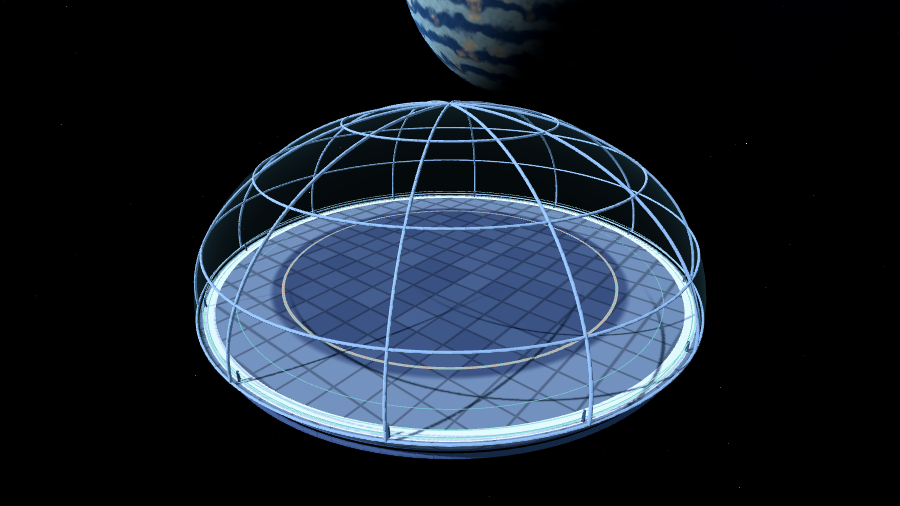
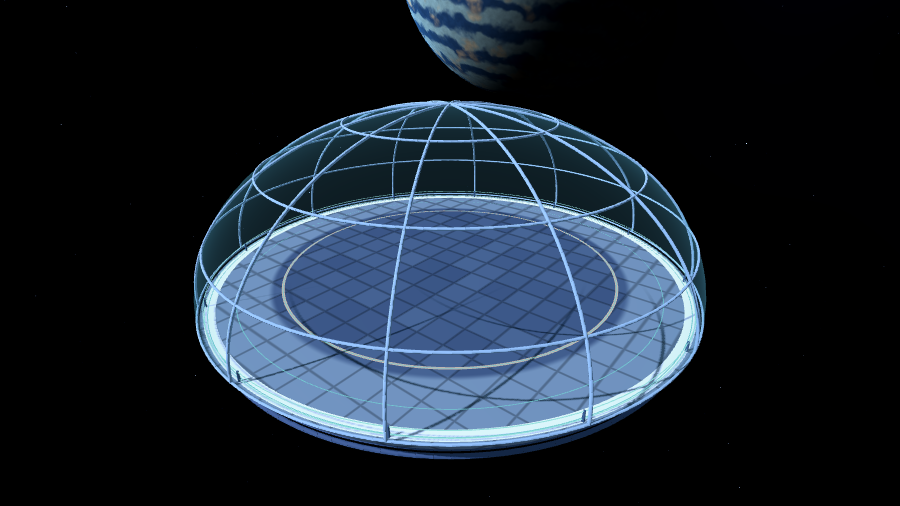
Refresh station cover with the visible glass envelope

Changed region(s): [[0.2178, 0.2075, 0.8089, 0.5929]]

diff --git a/assets/bazaar/README.md b/assets/bazaar/README.md
@@ -21,7 +21,7 @@ profile scene and do not claim that a playable world has been built. The market
 preset reuses `official.png`; all three are bundled under the repository asset terms.
 
 `island.png` and `station.png` are unedited renders of the shipped empty personal
-worlds, introduced in Bazaar 0.0.10 (`a5b369c`). They replace the previous
+worlds, introduced in Bazaar 0.0.10 (`029ff24`). They replace the previous
 Mika/Ren concept illustrations in the catalogue. Reproduce with
 `games/bazaar/tests/personal_review.gd`, `--world=island` / `--world=station`.
 All new environment geometry and shaders are original project GPL code; the
